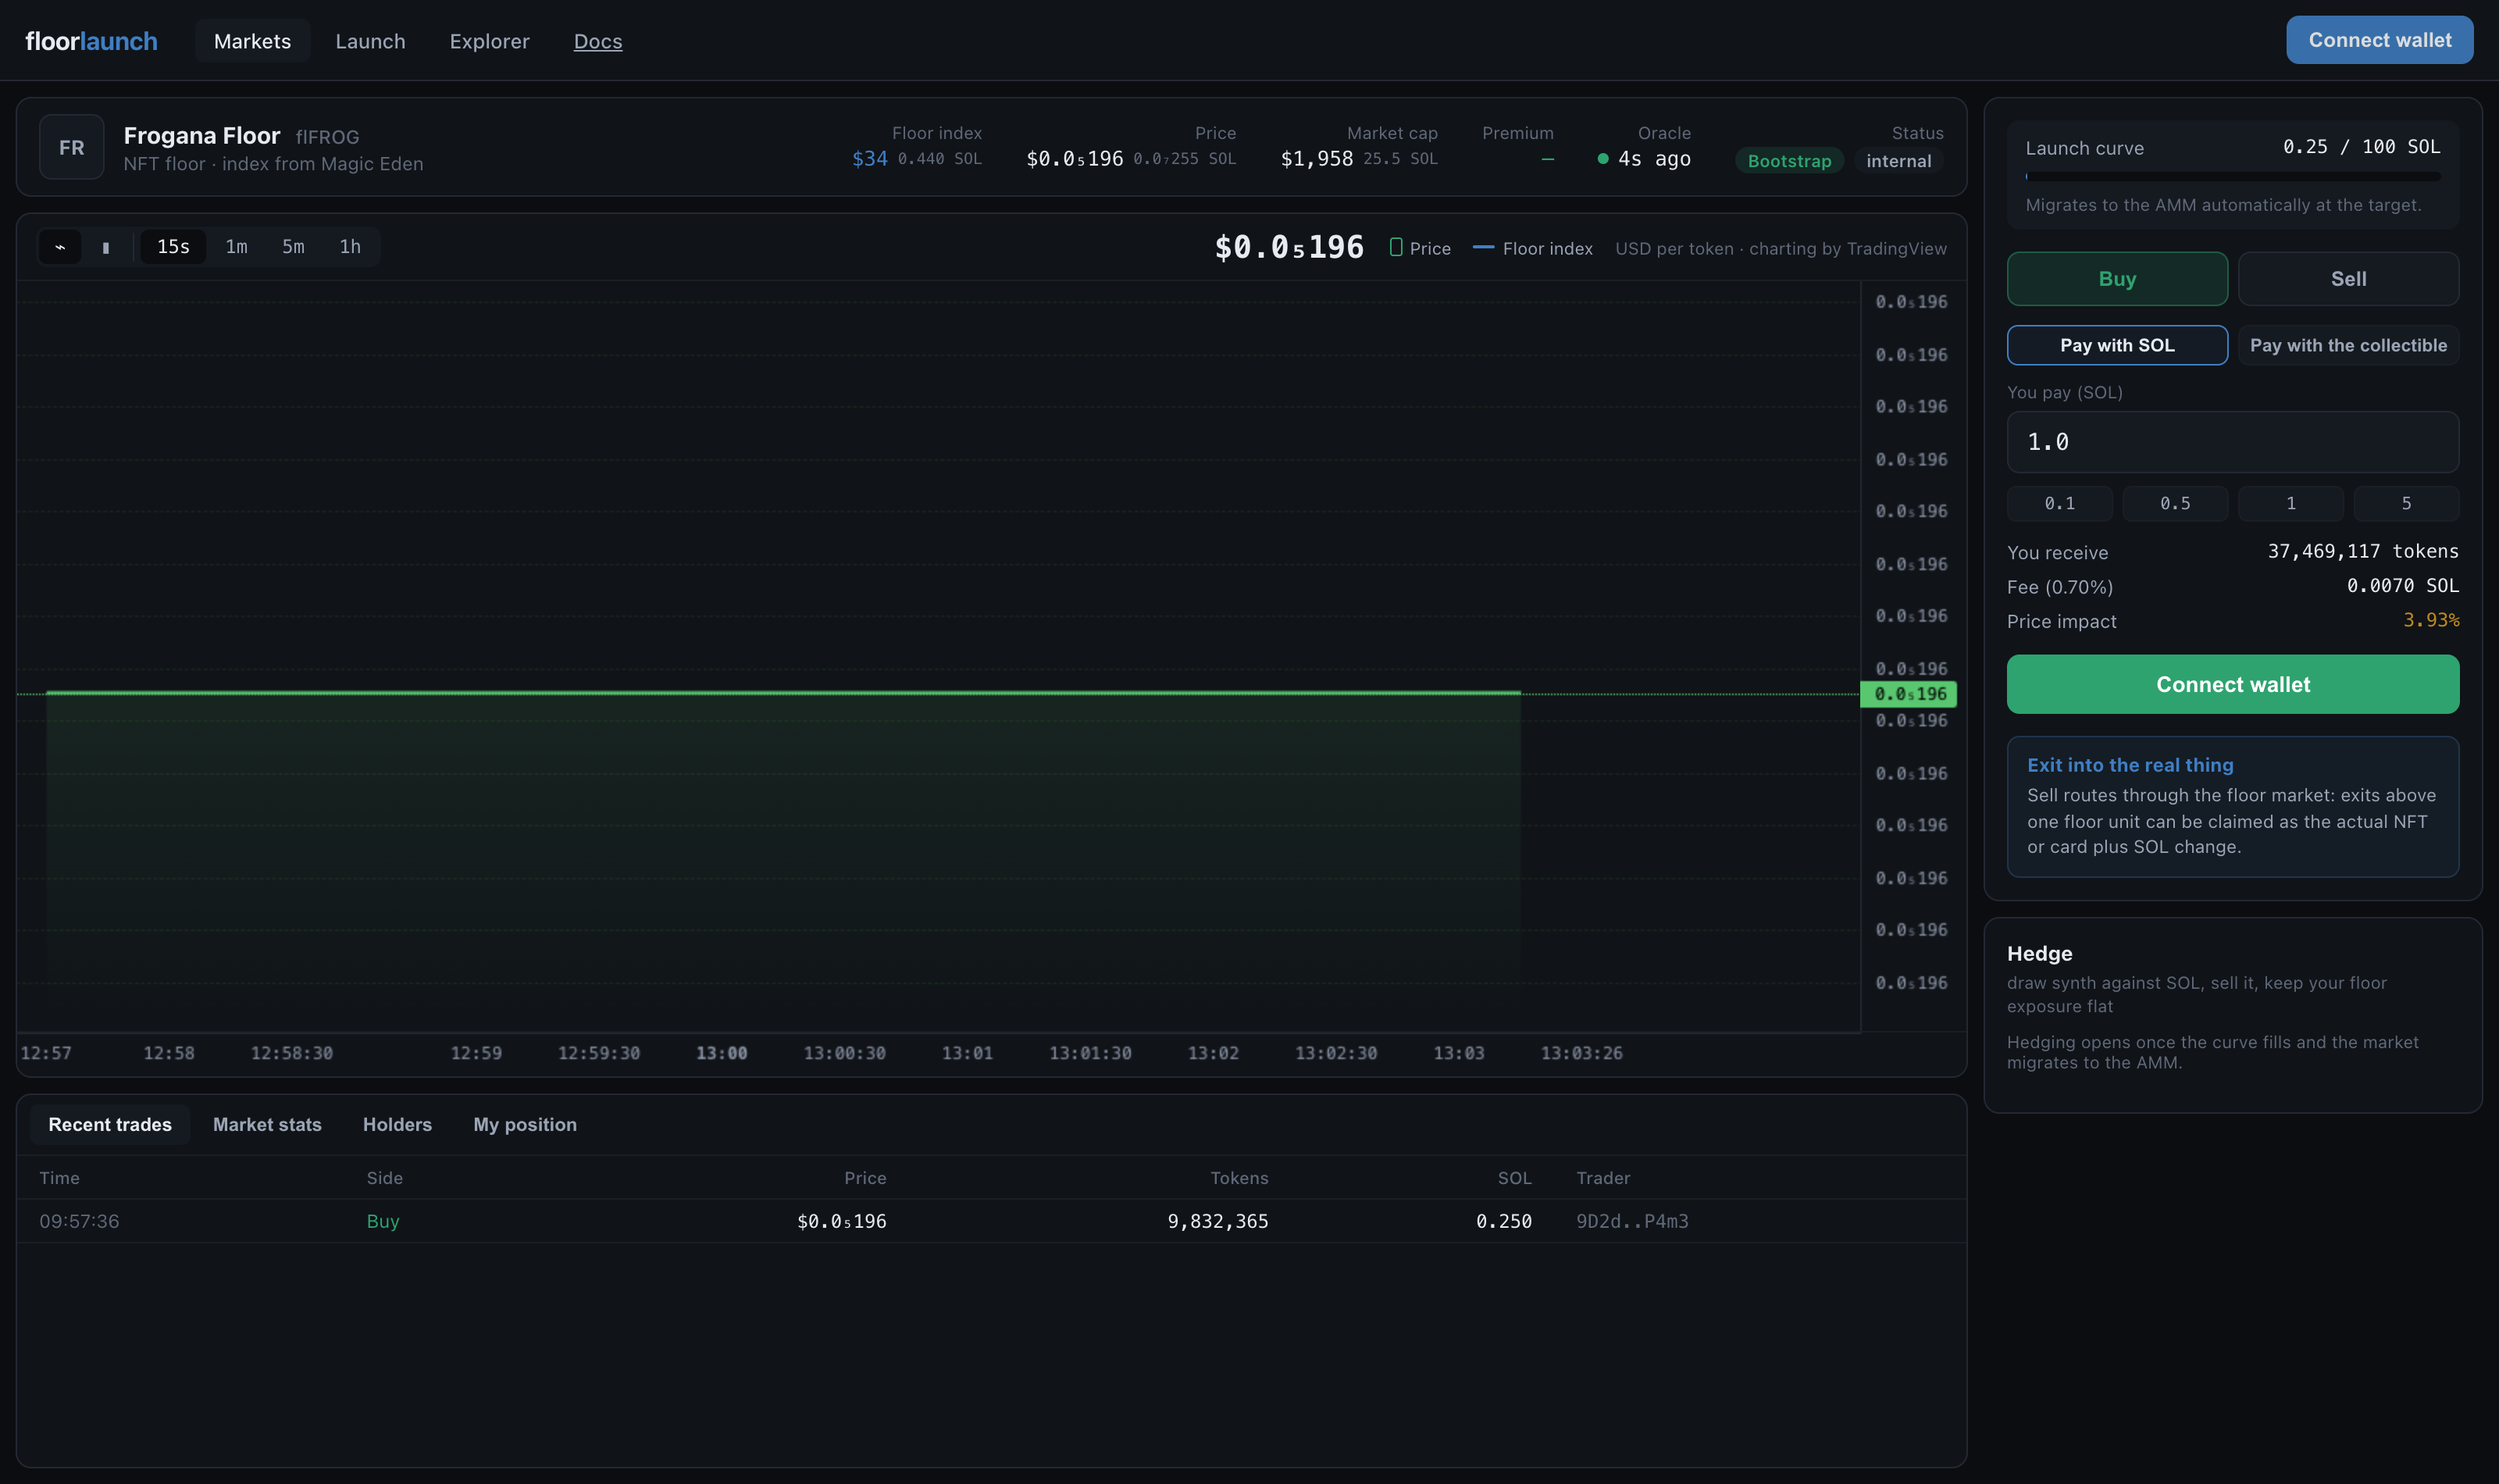
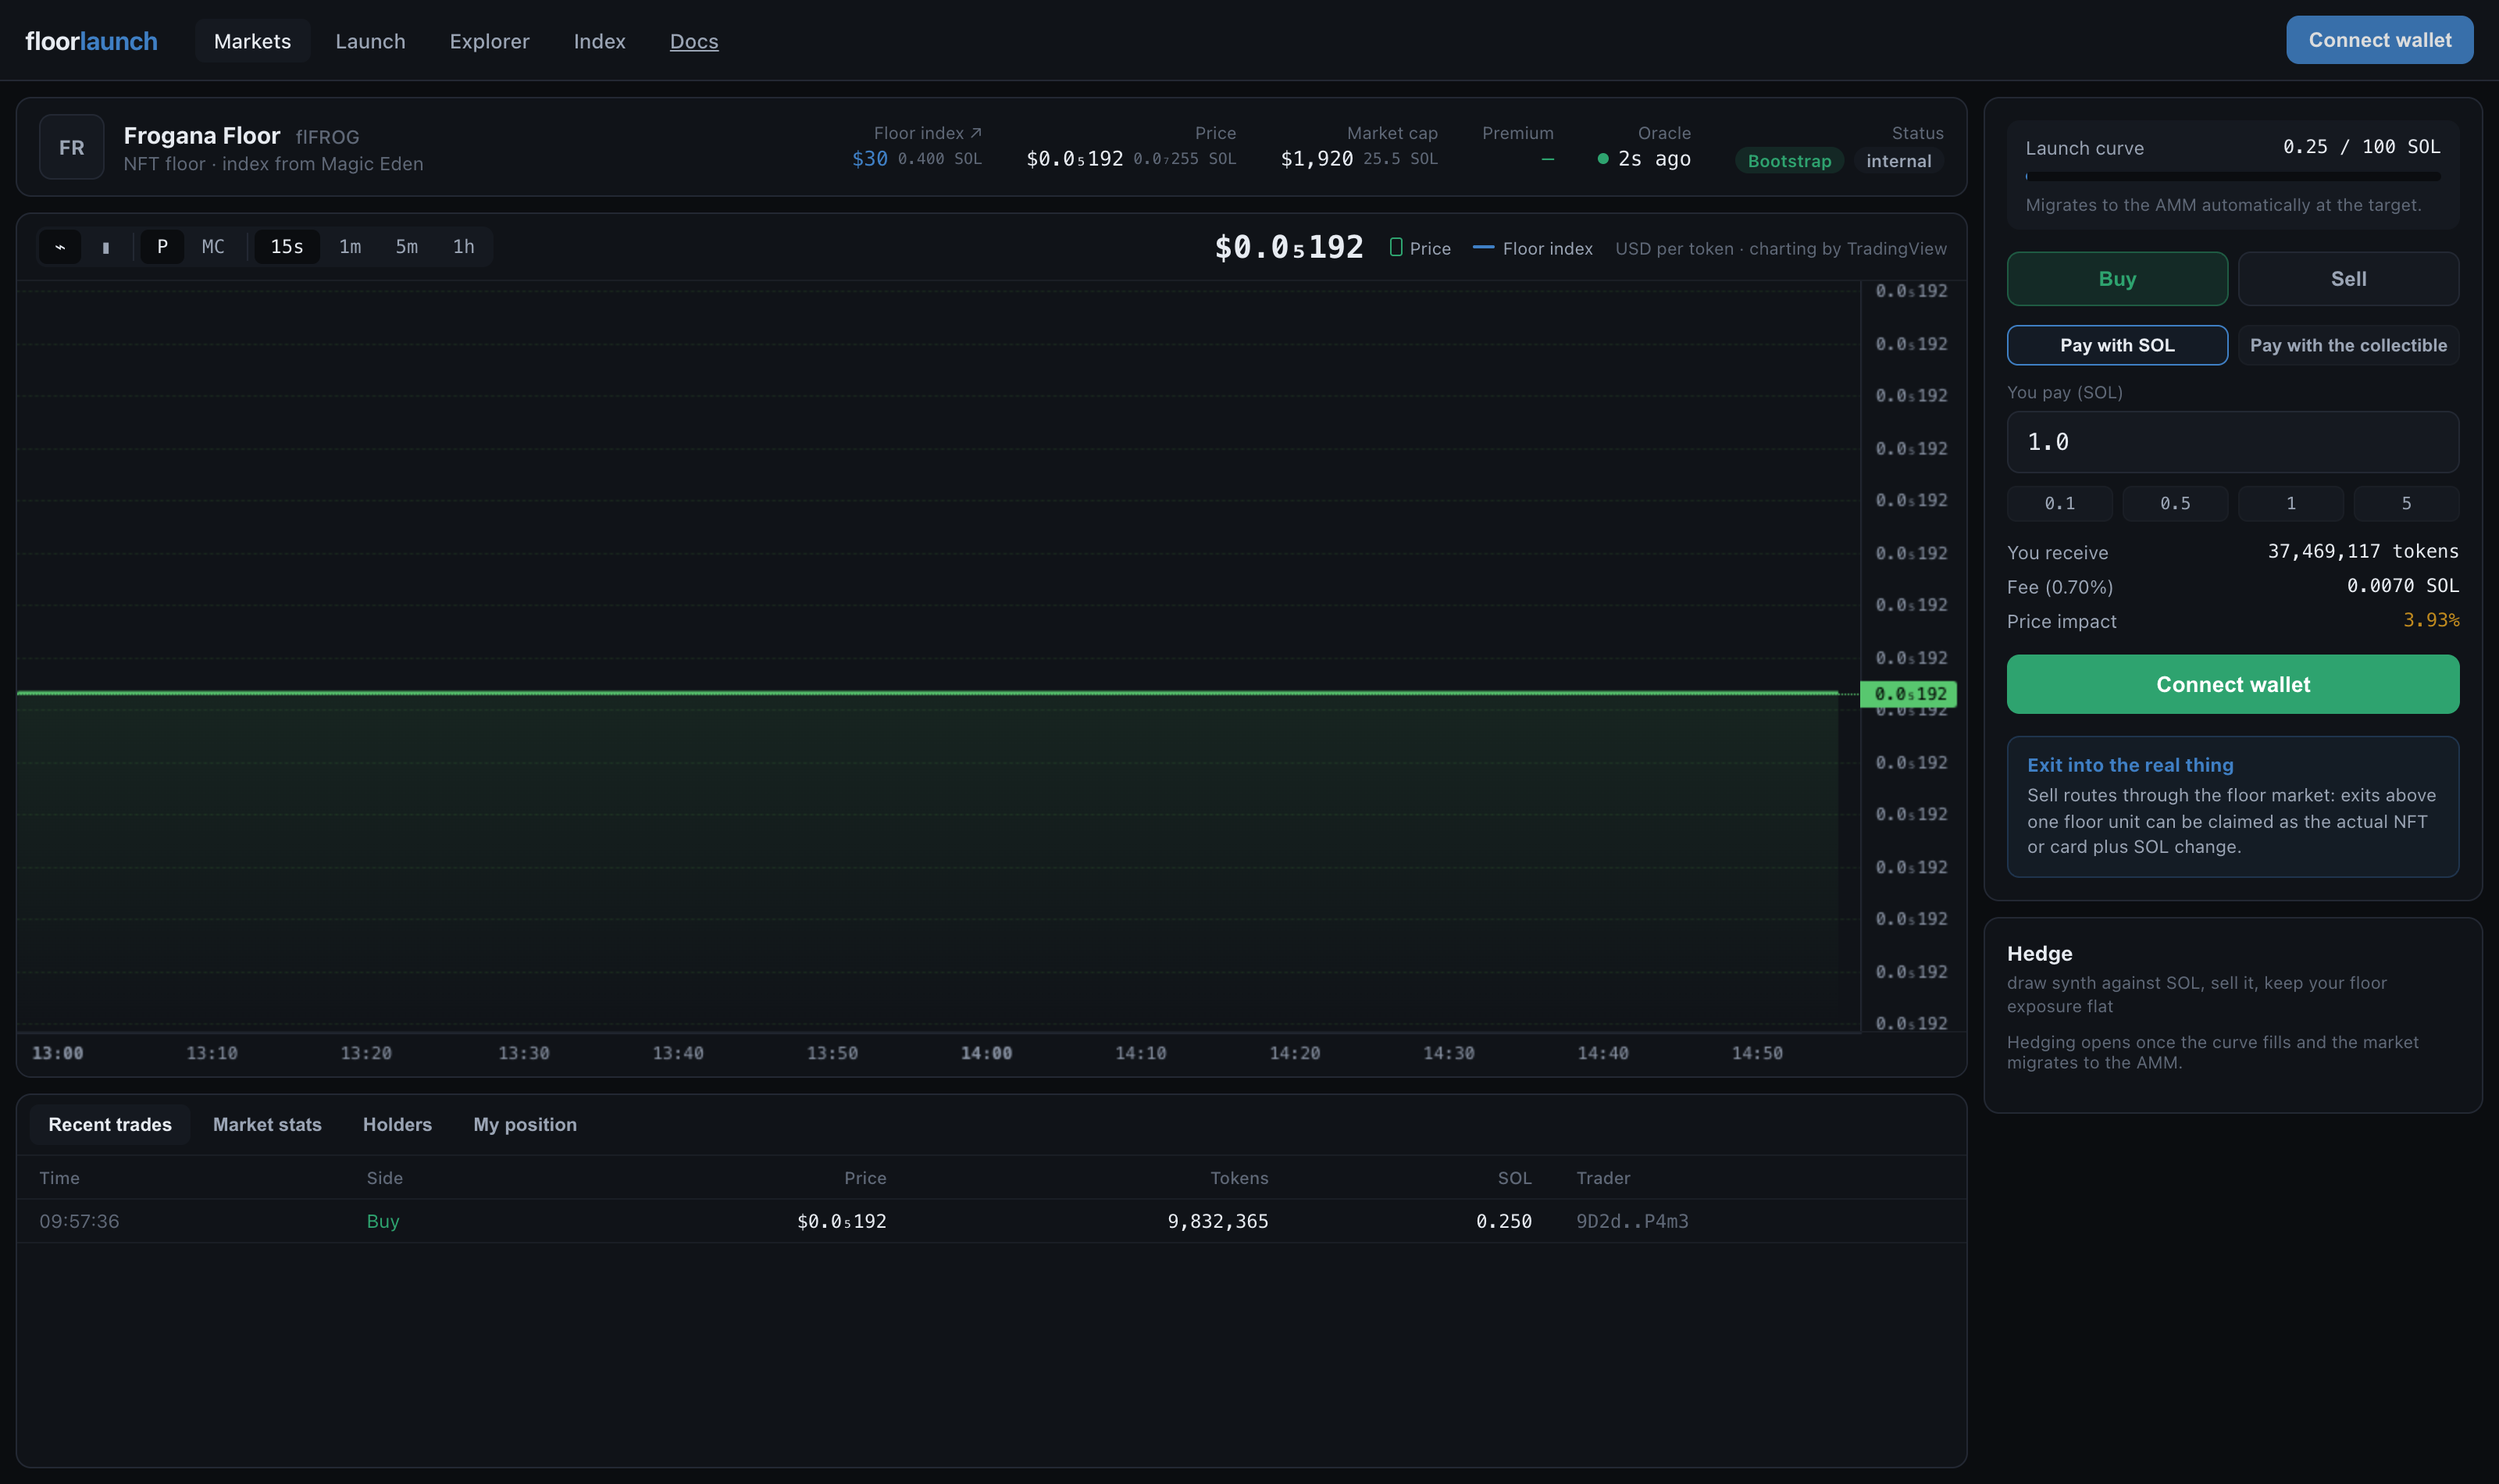
surface feeless item swaps as the buy-with-the-card incentive
Item swaps have always bypassed the 0.70% fee (it only exists on the
SOL curve/AMM paths); now the trade panel says so on the collectible
pane and the buy quickstart and economics docs state it as a deliberate
incentive.

diff --git a/app/src/components/TradePanel.tsx b/app/src/components/TradePanel.tsx
@@ -236,6 +236,10 @@ export default function TradePanel({ m, listing }: { m: MarketInfo; listing?: Li
                     {itemSwapTokens.toLocaleString(undefined, { maximumFractionDigits: 0 })}
                   </span>
                 </div>
+                <div className="row">
+                  <span>Fee</span>
+                  <span className="mono">none: paying with the real thing is free</span>
+                </div>
                 <button
                   className="cta buy"
                   onClick={doDepositItem}
